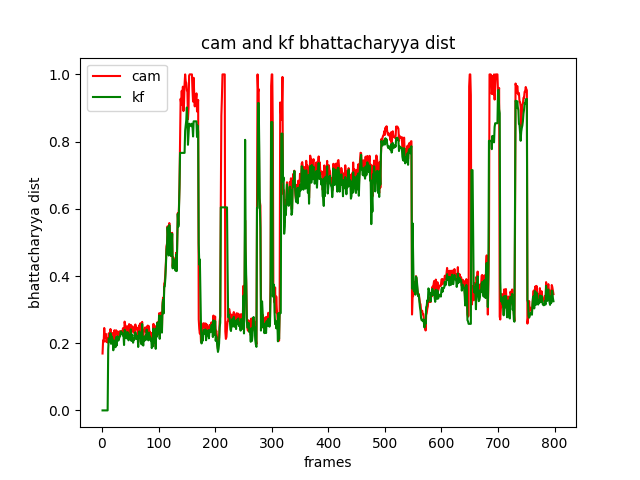
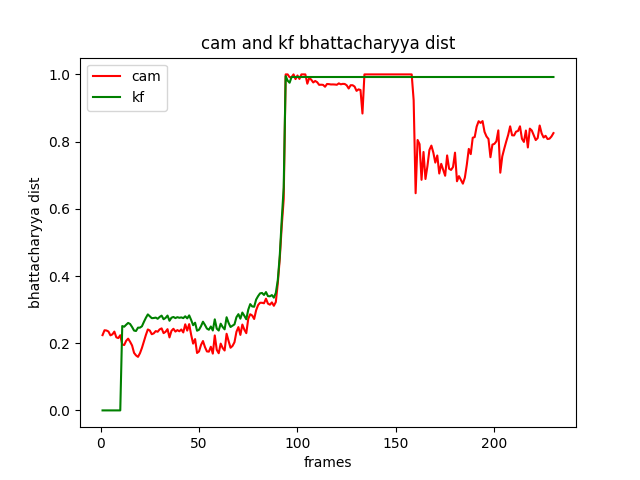
fix occlusion

diff --git a/main.py b/main.py
@@ -1,4 +1,3 @@
-from tkinter import E
 import numpy as np
 import cv2
 from utils import *
@@ -55,6 +54,7 @@ cv2.setMouseCallback("tracking", on_mouse, 0)
 termination = (cv2.TERM_CRITERIA_EPS | cv2.TERM_CRITERIA_COUNT, 10, 1)
 selected = False
 count_frame = 0
+pred_occluded = None
 
 bhattacharyya_dist_cam_list = []
 bhattacharyya_dist_kf_list = []
@@ -65,7 +65,7 @@ kf = cv2.KalmanFilter(4, 2)
 kf.measurementMatrix = np.array([[1, 0, 0, 0], [0, 1, 0, 0]], np.float32)
 kf.transitionMatrix = np.array([[1, 0, 1, 0], [0, 1, 0, 1], [0, 0, 1, 0], [0, 0, 0, 1]], np.float32)
 kf.processNoiseCov = np.array([[1, 0, 0, 0], [0, 1, 0, 0], [0, 0, 1, 0], [0, 0, 0, 1]],
-                                      np.float32)
+                                       np.float32)
 # we started from assume no occlusion
 occlusion_flag = False
 
@@ -162,34 +162,59 @@ while True:
         cv2.putText(frame, str(bhattacharyya_dist_cam), (50, 50), font, 1, (0, 255, 0), 1, cv2.LINE_AA)
 
 
-        
-        
         if not occlusion_flag:
+
             #update the measurement Matrix in kalman filter
             kf.correct(get_center_points(pts))
-            last_nonOcclusionR = r
+            prediction = kf.predict()
+            last_nonOcclusionR = get_center_points(pts)
             bbox_x_coord, bbox_y_coord, bbox_width, bbox_height = roiBox
+
         else:
             # if occlusion occurs , we use the old estimate
-            pts = np.int0(cv2.boxPoints(last_nonOcclusionR))
-            kf.correct(get_center_points(pts))
-            
-        
-        prediction = kf.predict()
+
+            # racked_points = get_center_points(pts)
+            # kf.correct(pred_occluded)
+
+            kf.statePre(int(pred_occluded[0]))
+            kf.statePre(int(pred_occluded[1]))
+            pred_occluded = kf.predict()
+            # print(pred_occluded)
+            # print("**************************************")
+            cv2.circle(frame, (int(pred_occluded[0]), int(pred_occluded[1])), 5, (255, 0, 0), 2)
+            cv2.imshow("tracked circle", frame)
+            cv2.waitKey(0)
+
+
+
+        # kf.correct(get_center_points(pts))
+        # prediction = kf.predict()
+        # prediction = kf.predict()
         # print("kf pred x: ", prediction[0] - (0.5*bbox_width), "kf pred y: ", prediction[1]- (0.5*bbox_height))
-        
-        
-        
-        
         #if occlusion occurs , we use the old estimate to get new KF prediction 
         if count_frame > 10:
             
-   
-            corr_x_coord, corr_y_coord, corr_width, corr_height = int(prediction[0] - (0.5*bbox_width)), \
-                                                                    int(prediction[1] - (0.5*bbox_height)), \
-                                                                    int(prediction[0] + (0.5*bbox_width)), \
-                                                                    int(prediction[1] + (0.5*bbox_height))
-            cv2.rectangle(frame, (corr_x_coord, corr_y_coord), (corr_width, corr_height), (0, 0, 255), 2)
+            if not occlusion_flag:
+                corr_x_coord, corr_y_coord, corr_width, corr_height = int(prediction[0] - (0.5*bbox_width)), \
+                                                                        int(prediction[1] - (0.5*bbox_height)), \
+                                                                        int(prediction[0] + (0.5*bbox_width)), \
+                                                                        int(prediction[1] + (0.5*bbox_height))
+                # if not occlusion_flag:
+                cv2.rectangle(frame, (corr_x_coord, corr_y_coord), (corr_width, corr_height), (0, 0, 255), 2)
+            else:
+
+                corr_x_coord = int(pred_occluded[0] - (0.5*bbox_width))
+                corr_y_coord = int(pred_occluded[1]-(0.5*bbox_height))
+                corr_width = int(corr_x_coord + (0.5 * bbox_width))
+                corr_height = int(corr_y_coord + (0.5 * bbox_height))
+                print(corr_x_coord)
+                print(corr_y_coord)
+                print(corr_width)
+                print(corr_height)
+                print("------------------------------------------------")
+
+                # cv2.circle(frame, (corr_x_coord, corr_y_coord), 2, (0, 0, 255), -1)
+
 
 
             # cv2.imshow("kf_corr_img", kf_corr_img)
@@ -213,7 +238,6 @@ while True:
         bhattacharyya_dist_cam_list.append(bhattacharyya_dist_cam)
         bhattacharyya_dist_kf_list.append(bhattacharyya_dist_kf)
         frame_list.append(count_frame)
-        
 
         if bhattacharyya_dist_cam >= bhattacharyya_dist_kf:
             cv2.polylines(frame, [pts], True, (0, 255, 255), 2)
@@ -224,11 +248,16 @@ while True:
             kalman_img_gray = cv2.cvtColor(kf_corr_img, cv2.COLOR_BGR2GRAY)
             edge_weight = getGradientMagnitude(kalman_img_gray)
 
-        if edge_weight < edge_weight_template / 4:
-            print("occlusion occurs")
+        if edge_weight < edge_weight_template / 2:
+            # print("occlusion occurs")
+            cv2.putText(frame, "occlusion occurs", (50, 100), font, 1, (0, 255, 0), 1, cv2.LINE_AA)
             occlusion_flag = True
+            # bbox_x_coord, bbox_y_coord, bbox_width, bbox_height = roiBox
+            pred_occluded = np.array([(corr_x_coord+corr_width) // 2, (corr_y_coord + corr_height) // 2], dtype=np.float32)
         else:
             occlusion_flag = False
+
+
             
     cv2.imshow("tracking", frame)
     if cv2.waitKey(1) & 0xFF == ord('q'):
